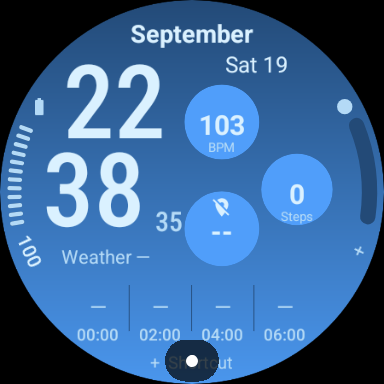
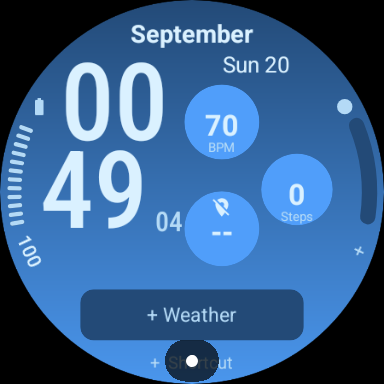
Record native weather-slot tests, screenshots and remaining redraw issue [skip ci]

diff --git a/docs/VALIDATION.md b/docs/VALIDATION.md
@@ -1,85 +1,63 @@
 # Validation evidence
 
-Build environment: Linux x86-64, Temurin JDK 17, Gradle 8.13, Android Gradle Plugin 8.13.2, Android platform/build-tools 35. Date: 2026-09-19.
+Version 0.1.3, 2026-09-19. Resource-only WFF 2; Temurin JDK 17, Gradle 8.13, AGP 8.13.2, Android platform/build-tools 35.
 
-## Completed locally
+## Local checks
 
 | Check | Result |
 | --- | --- |
-| Generated WFF matches source generator | Pass |
-| Eleven regression checks | Pass |
+| Generated XML matches generator | Pass |
+| Ten geometry/complication regression checks | Pass |
 | Official WFF validator 1.7.0, format 2 | Pass |
-| Debug APK and unsigned release AAB | Build successfully |
-| APK/AAB contents | No DEX; referenced images present |
-| Android lint | No errors; advisory warnings described below |
-| Official memory evaluator, APK and AAB | Pass: active 3,551,360 bytes; ambient 3,181,712 bytes |
-| Whitespace/diff check | Pass |
+| Debug APK / unsigned release AAB / Android lint | Pass |
+| Package resources and absence of DEX | Pass |
+| Official APK/AAB memory evaluator | Pass: active 2,371,712 bytes; ambient 3,181,712 bytes |
 
-The regression checks cover six stable slots and their type renderers, distinct tap regions inside the circular screen, disjoint runtime rectangles and bounded rendering parts, all 16 weather conditions with day/night assets, unavailable forecast fallbacks, every hour across midnight/noon, and ambient layer visibility. A pixel-by-pixel geometry check verifies the complete rotated edge-caption rectangles remain inside their clipping masks and the round screen. A separate clearance check keeps the gauge strokes clear of those captions. Additional checks keep the minutes/seconds apart and prevent either weather tap target from overlapping a complication. Resource-label checks also prevent Android-style `@string/` references in raw WFF editor attributes; WFF expects bare resource names.
+Regression coverage includes all seven named slots and renderers, non-overlapping editor/runtime touch rectangles, bounded rendering parts, complete rotated edge labels and gauge clearance, separated minutes/seconds, time/circle clearance, device time-format synchronization, and time/date-only ambient visibility. The weather-slot contract rejects any hard-coded app launch or native forecast data: the selected complication provider owns its data and tap action. It also checks short/long text, images and progress support. There are no longer any forecast rollover expressions to test.
 
-Lint advisories include newer available tool versions, raw-WFF resource references that Android lint cannot trace, and backup metadata for a code-free package. No resource shrinking is enabled, and the package check confirms referenced image resources survive packaging.
+The layout retains the previous stacked time and three staggered circles. Hours/minutes increase from 120 to 126 units; readings of up to three characters increase from 32 to 34. Four-character values use 30, five use 26, and longer text uses 20 to avoid truncating step counts. The separate current-weather/forecast buttons are replaced by slot 7, a 262 × 60 area below the main readings. Slot IDs 1–6 are preserved. Weather starts empty because WFF has no portable system WEATHER provider; choose an installed source in Customize. Image providers may use the area for a chart, but the face does not generate chart history.
 
-`validation/package-checksums.json` identifies the local APK/AAB deliverables. GitHub's fresh runners generate their own development signing key, so their debug APK checksum differs. GitHub artifacts include the reports produced alongside those builds.
+Lint advisories include available dependency updates, resource references inside raw WFF that lint cannot trace, and backup metadata for a code-free package. Resource shrinking remains disabled. `validation/package-checksums.json` identifies local deliverables; CI APK checksums differ because its debug signing keys are temporary.
 
-## Platform verification
+## Native emulator evidence
 
-The local Wear OS API 34 emulator was launched with software CPU emulation because this host has no `/dev/kvm`. It reached Android startup, but `system_server` repeatedly exceeded its 61-second watchdog timeout before package installation was available. These are operating-system boot failures; **no successful local install, watch-face rendering, complication interaction or ambient screenshot is claimed**.
+[GitHub run 35479553609](https://github.com/DylanMc25/ultrawatchfaceedits/actions/runs/35479553609), source commit `1fa08cf`, passed the build job and both emulator jobs. Captures were downloaded and visually reviewed.
 
-Hardware-accelerated [GitHub run 35473692442](https://github.com/DylanMc25/ultrawatchfaceedits/actions/runs/35473692442), commit `38ca287`, passed builds/validation and both emulator jobs. The actual captures were downloaded and visually reviewed:
-
-| Check | API 34, 454 × 454 round | API 35-ext15, 384 × 384 round |
+| Check | API 34, 454 × 454 | API 35-ext15, 384 × 384 |
 | --- | --- | --- |
-| APK installation and face activation | Pass | Pass |
-| Blue gradient, stacked time, date and six areas | Rendered | Rendered |
-| 12/24-hour preference | 10 / 22 hours; forecast labels switch | 10 / 22 hours; forecast labels switch |
-| Missing weather | `Weather —`, four dashes, future-hour labels | Same |
-| Default providers | Heart rate, steps, battery; unavailable sunrise/sunset | Same |
-| Black always-on with time/date only | Pass, display state `DOZE` | Pass, display state `DOZE` |
-| Ambient illuminated area at captured time | 4.2275% | 2.1258% |
+| Install, activate and render blue face | Pass | Pass |
+| Device 12/24-hour preference | Pass | Pass |
+| Native editor: all seven provider choosers | Pass | Pass |
+| Weather-area reassignment to Alarm | Pass | Pass |
+| Assigned weather-area tap dispatches slot 7 | Pass | Pass |
+| Wrong complication dispatch | None | None |
+| Angled battery and assigned right-edge text | Visible | Visible |
+| Black time/date-only ambient, display state | DOZE | DOZE |
+| Ambient lit pixels, including overlays | 2.9106% | 4.2308% |
 
-Illumination counts every non-black pixel within the round screen, including system overlays, with no brightness cutoff. Both captures are below the documented [15% limit](https://developer.android.com/training/wearables/wff/ambient). These measurements establish the captured date/time only, not every possible date, font or device. These captures emulate an unplugged battery so the charging overlay does not cover the shortcut; API 35 still shows the system unread-status dot.
+The native editor's four-digit step count is shown in full with the compact numeric size. The empty weather panel renders within its bounds on both sizes; the assigned Alarm panel renders correctly on API 35 and in both native editors. The final API 34 post-editor active capture shows a partial background redraw (lower background/slot surface missing), although slot text remains visible and its tap opens the Alarm time picker. The initial API 34 active and editor captures are clean, and the preceding run `35479085523` rendered the same slot/background correctly. The cause is unresolved; do not treat the passing interaction job as proof of artifact-free rendering after every provider change. Reproduce on Galaxy Watch and investigate if it persists. API 35's system unread-status overlay covers part of the bottom shortcut; this is still a physical-device review item.
 
-The emulator weather service returned an internal server error; no populated native forecast is claimed. Heart rate and steps are supplied by the emulator's installed providers and are not physical health measurements. Missing provider icons render empty. No readings are fabricated by the face.
+Steps, sunrise/sunset, battery and the assigned weather slot dispatch to IDs 2, 3, 4 and 7 respectively. Battery opens native Battery settings. The emulator's heart-rate placeholder emits no tap launch; real health/app destinations remain unverified.
 
-Version 0.1.2 enlarges forecast temperatures (18 to 26), forecast times (14 to 19), main complication readings (21–23 to 32 for short values), provider titles (11 to 15), seconds (25 to 32), and the bottom shortcut (15–16 to 20). Longer values use smaller type to fit. Minutes are shifted left with a separate seconds column. The battery gauge now uses twelve radial ticks; the right edge has a thicker arc. Both edges use provider icons and angled labels inspired by the original reference. Rounded rectangular masks preserve complete rotated text and disjoint interaction areas.
+The local host lacks `/dev/kvm`; software-emulated Android startup previously hit system-server watchdog failures. Native evidence therefore comes from hardware-accelerated GitHub emulators, not the illustrative renderer.
 
-The weather reading and forecast region now have WFF `Launch` actions targeting `com.samsung.android.watch.weather`, including the unavailable-data state. WFF 2 has no generic weather shortcut in its [documented system launch targets](https://developer.android.com/reference/wear-os/wff/common/launch). Samsung Weather is not bundled in the stock emulators; native tap diagnostics record package-launch requests separately from actual app launch success. Both emulators record the correct package request from both tap areas, with no accidental complication launch. The `api*-weather-*-launch.txt` files show the missing-package/market fallback explicitly. Opening the Samsung app itself remains a physical Galaxy Watch check.
+The automation opens all seven native provider choosers independently. It assigns Alarm to the right edge to check the angled label, then assigns Alarm to the weather area to exercise an actual provider selection and tap. The stock emulator does not include Samsung Weather. An Alarm test establishes the interchangeable slot contract; it does **not** establish live Samsung Weather, chart-provider rendering, or Samsung app launches.
 
-Runtime testing also caught a battery tap being dispatched from the steps circle. The edge slots and all rendering parts now have bounded, disjoint rectangles, with a dedicated regression test; the circular/arc outlines alone were insufficient for native tap dispatch. The native interaction script confirms the blue face before every coordinate tap and reports any launch from the wrong slot.
+The editor displays Wear OS sample time/health readings, not live measurements. Active health values come from emulator providers. Empty/unavailable data is never replaced with fabricated readings by the face. The illustrative preview uses explicitly supplied sample weather.
 
-Runtime testing found a color-setting parse failure that the official schema validator did not detect. The single blue palette now renders directly from centralized source colors; it does not expose an unnecessary one-option color editor. CI rejects a startup/default face or a runtime theme parse failure, rather than accepting installation alone.
+Ambient illumination counts every non-black pixel inside the circular screen, including system indicators. The [15% limit](https://developer.android.com/training/wearables/wff/ambient) applies; measurements establish only the captured time/date/device, not every possible state. The emulator simulates an unplugged battery to avoid the charging overlay. Wear OS status indicators may still overlay the bottom shortcut.
 
-### Editor and tap verification
+## Remaining physical-device coverage
 
-Both emulators opened the native editor and independently opened the provider chooser for **all six slots**. The JSON reports in `validation/api34-editor-results.json` and `validation/api35-editor-results.json` record six visible chooser results each, no tap mismatches and no automation errors. Full per-slot PNG/XML/activity captures are in the linked workflow artifacts. The probe cancels the six individual chooser checks, then assigns Alarm to the right edge and returns to the active face. This verifies the provider selection and its “Set” label. Retaining selections across updates and reboots remains a physical-device check.
+- Check for the recorded API 34 background redraw anomaly after changing providers, including returning from the editor and crossing a minute boundary.
+- Choose Weather in the new slot on the user's Galaxy Watch, check permissions, live readings, units, unavailable state and the provider's tap destination.
+- Assign a compatible image/chart provider and inspect its aspect ratio and readability. This is not guaranteed for every third-party provider.
+- Check long localized month/day strings, wide digits, large steps and provider text, midnight/noon, time-zone changes and temperature extremes.
+- Check real heart-rate consent/actions, provider settings persistence across updates/reboots and battery consumption.
+- Review ambient legibility and illumination at other times/dates on Galaxy Watch hardware.
 
-Native tap logs identify the correct steps, sunrise/sunset and battery slots (2, 3, 4). Battery opens the system Battery settings page on both emulators. Steps and sunrise/sunset dispatch to their slots but do not open another foreground app in these images. The emulator placeholder heart-rate provider produces no launch event and leaves the face visible; its real-watch action is unverified. No unsupported launch is reported as successful.
-
-The native editor supplies sample data: September 28 at 09:30, populated weather, heart rate, steps and sunset. Its captures verify the native populated-weather glyphs and spacing, including compact sunset text. These are **Wear OS editor sample readings**, not live weather or health. The actual face continues to display dashes when live weather is unavailable.
-
-The final API 34 ambient capture shows continuous thin text; API 35 shows stippled text. Both remain below 5% illumination. The measurement applies to each captured state; brightness and readability still need physical Galaxy Watch review.
-
-### Coverage boundaries
-
-| Scenario | Evidence / remaining check |
-| --- | --- |
-| September date, real device text metrics | Reviewed on both emulators; no time/date clipping |
-| Longer localized dates, all wide digit pairs | Ellipsis/fit policies implemented; exhaustive native captures pending |
-| Midnight/noon and forecast rollover | All 24 input hours checked against generated label expressions; native captures also show 00:00 / 02:00 / 04:00 / 06:00 forecast labels and 12-hour equivalents. Main-clock noon/midnight transitions remain pending |
-| Temperature extremes and unit changes | Uses native temperature values; real weather service unavailable in these emulators |
-| Empty right/bottom complications | Setup placeholders rendered |
-| Edge labels on both display sizes | Angled battery “100” and assigned Alarm “Set” fully visible and clear of the gauges |
-| Weather tap areas | Both request Samsung Weather without dispatching a complication; the absent app causes the documented market fallback. Real Samsung app launch pending |
-| Larger readings and seconds | Native active/editor captures reviewed on both sizes; forecast values, provider values/titles and separated seconds remain readable |
-| Unavailable weather and sunrise/sunset | Observed in native captures |
-| Health permission denial | Physical provider consent flow pending |
-| Six separate touch targets | Visible selection geometry and rectangular runtime bounds pass regression checks; all six provider choosers opened independently on both emulators |
-| Provider selection and tap launches | Correct slot dispatch observed for steps/sunrise/battery; Battery settings opens. Alarm selection is saved on exiting the editor. Real heart-rate/app destinations and persistence across updates/reboots require physical hardware |
+The previous layout's physical user feedback informed the revision, but the revised layout is not yet verified on a physical Galaxy Watch. See [release prerequisites](RELEASE.md) before selling.
 
 ## Preview status
 
-The files in `docs/previews/*-illustrative.png` are layout proofs drawn from the WFF geometry with explicit sample readings. They are not emulator screenshots. They cannot prove real font metrics, ambient power behavior, or provider integration. The active proof is the temporary system picker preview.
-
-## Still required before sale
-
-See [RELEASE.md](RELEASE.md): physical Galaxy Watch coverage, real health and app providers, permission/data-unavailable states, exact tap launches, forecast/unit/time-zone behavior, ambient illumination across other dates/times and physical battery use, permanent branding/package ID, signing, and Play submission preparation.
+`docs/previews/*-illustrative.png` are approximate layout proofs from WFF geometry and explicit sample data. They do not prove native font metrics, provider compatibility or battery behavior. The active illustration is the temporary system picker preview; use verified device screenshots before publishing.

diff --git a/docs/PULL_REQUEST.md b/docs/PULL_REQUEST.md
@@ -1,18 +1,12 @@
-# Build blue stacked-time watch face with weather and six complications
+# Build blue stacked-time watch face with seven editable complications
 
-Replaces the placeholder Ultra Info Board layout with a blue gradient, oversized stacked time, three staggered circular complications, editable left/right edge indicators, and a bottom shortcut. Adds native current weather and four forecasts (+2/+4/+6/+8 hours), plus a black always-on time/date display. Default readings are heart rate, steps, sunrise/sunset and battery; the right edge and shortcut start unassigned. Larger complication and forecast text improves readability. Minutes move left to give larger seconds their own column. The edges use a segmented left gauge, thicker right arc, provider icons and angled labels, with rounded rectangular clipping masks. Both weather areas target Samsung Weather on Galaxy Watch.
+Replaces the placeholder face with a blue gradient, large stacked time, three staggered circular complications, edge indicators and a bottom shortcut. A compact interchangeable weather slot replaces the separate current-weather/forecast grid. It accepts provider text, icons, images/charts and progress, and delegates taps to the selected provider. Heart rate, steps, sunrise/sunset and battery are default sources; weather, right edge and bottom shortcut start unassigned. Modest type increases keep the familiar layout. Black always-on mode retains thin time and date only.
 
-![Actual API 34 active face](https://raw.githubusercontent.com/DylanMc25/ultrawatchfaceedits/codex/watchface-redesign/docs/previews/emulator-api34-active.png)
-![Actual API 35 ambient face](https://raw.githubusercontent.com/DylanMc25/ultrawatchfaceedits/codex/watchface-redesign/docs/previews/emulator-api35-ambient.png)
+![Native active face](previews/emulator-api34-active.png)
+![Native always-on face](previews/emulator-api35-ambient.png)
 
-These are actual Wear OS emulator captures. Weather is unavailable in the emulator; health readings come from its installed providers. Live readings are not hard-coded. A separately labeled illustrative populated-weather preview is also included.
+Preserves resource-only WFF 2 packaging and stable slot IDs 1–6; adds slot 7. Restores the pinned Gradle wrapper and produces a debug APK and unsigned release AAB with no DEX. Adds GitHub build/schema/memory/lint checks, geometry regressions and two round Wear OS emulator jobs. Includes setup, installation and release documentation.
 
-Repairs resource-only WFF 2 packaging, restores the pinned Gradle wrapper, produces a code-free debug APK and unsigned release AAB, and adds build/schema/memory checks plus round Wear OS emulator capture jobs. Includes editable-slot geometry checks, forecast rollover checks, original weather assets, picker preview, and installation/release documentation.
+Validation: ten regression checks, official WFF syntax/resource and memory checks, builds and lint pass. Native capture provenance, individual chooser results, tap evidence and measured ambient illumination are recorded in [validation evidence](VALIDATION.md). An API 34 post-editor capture has a partial background redraw anomaly; initial active/editor captures and API 35 are clean. The cause is unresolved and recorded for reproduction. Samsung Weather and image/chart providers remain physical-device checks; the stock emulator tests the new slot with Alarm instead.
 
-Validation evidence and platform-test limitations are tracked in [docs/VALIDATION.md](https://github.com/DylanMc25/ultrawatchfaceedits/blob/codex/watchface-redesign/docs/VALIDATION.md). Local builds, lint (no errors), eleven regression tests, official schema validation, package resource checks, and memory validation pass.
-
-Both API 34 (454 px round) and API 35 (384 px round) render the face, follow 12/24-hour settings and enter the black ambient display. Reviewed ambient captures illuminate under 5% of the round screen, including system indicators. Complete evidence and untested cases are documented rather than inferred from build success.
-
-All six slots independently open their native provider chooser on both emulators. Steps, sunrise/sunset and battery taps dispatch to the correct slots, and battery opens system Battery settings. The native editor also renders the populated weather layout using its own sample data. The assigned Alarm edge label is also fully visible on both sizes. Both weather tap areas request the correct Samsung Weather package without triggering a complication. The stock emulators lack Samsung Weather, so its actual launch remains a physical-device check, alongside real health-provider launches, live weather and provider persistence across updates/reboots. [Passing build, validation and emulator run](https://github.com/DylanMc25/ultrawatchfaceedits/actions/runs/35473692442).
-
-This is a development milestone. Physical Galaxy Watch testing, live weather and Samsung provider/permission flows, final store identity, release signing and Play listing preparation remain required before sale.
+This is a development milestone. Physical Galaxy Watch verification, permanent branding/package identity, release signing and Play Store preparation remain required before sale.

diff --git a/docs/previews/README.md b/docs/previews/README.md
@@ -1,26 +1,22 @@
 # Emulator captures and layout proofs
 
-`emulator-api34-active.png` / `emulator-api34-ambient.png` are actual 454 × 454 large-round captures. The API 35 pair is the 384 × 384 small-round Wear OS 5.1 emulator. See [validation evidence](../VALIDATION.md) for their source run, measured ambient illumination and limitations. Provider values are emulator data; weather is unavailable. System status indicators belong to Wear OS.
+`emulator-api34-active.png` / `emulator-api34-ambient.png` are native 454 × 454 large-round captures. The API 35 pair is the 384 × 384 small-round Wear OS 5.1 emulator. See [validation evidence](../VALIDATION.md) for the source run, ambient illumination and limitations.
 
 ![Actual API 34 active face](emulator-api34-active.png)
 ![Actual API 35 ambient face](emulator-api35-ambient.png)
 
-## Native editor and interactions
+## Editor and provider interactions
 
-The `*-editor.png` images are the real Wear OS editor, using **system sample readings** for time, health and weather. All six outlined areas independently opened the provider chooser on both emulators. The `*-shortcut-picker.png` images show the bottom shortcut's chooser. `emulator-api34-battery-action.png` records the battery tap opening system Battery settings. The complete per-slot captures and logs are downloadable from the workflow linked in the validation report.
+The `*-editor.png` images show the real Wear OS editor and its **system sample time/health readings**. All seven outlined areas must independently open their provider chooser. `*-shortcut-picker.png` shows the bottom shortcut chooser; `*-weather-picker.png` shows the new interchangeable weather slot. Battery action captures record the native Battery settings page.
 
-![Native editor with system sample data](emulator-api34-editor.png)
+`*-edge-alarm.png` assigns Alarm to the right edge on disposable emulators to verify the angled “Set” label. `*-weather-assigned.png` assigns Alarm to the weather slot to verify it accepts another provider. These assignments are test fixtures; the APK leaves both slots unassigned. Samsung Weather and third-party chart providers require physical-watch checks. The final API 34 assigned-provider active capture has a partial background redraw anomaly after leaving the editor; it is preserved unmodified and described in the validation report.
 
-## Edge-caption regression
+![Native editor](emulator-api34-editor.png)
 
-The `*-edge-alarm.png` images assign the system Alarm provider to the right edge on the disposable emulator. They verify that its “Set” text and the left battery label are fully visible. The default APK still leaves the right edge unassigned.
+## Illustrative layout
 
-Weather-tap diagnostics distinguish a request to launch Samsung Weather from a successful app launch. The stock emulators lack the Samsung app; verify the actual destination on Galaxy Watch.
+`active-illustrative.png` and `ambient-illustrative.png` are **illustrations, not emulator screenshots**. They use the committed WFF geometry and explicit sample data: September 19, 02:26, 71 bpm, 8,420 steps, 62% battery and sunny 24° weather. Actual readings always come from selected providers.
 
-## Illustrative populated-weather layout
+Generate with `tools/render_preview.py --font /path/to/Roboto-Regular.ttf` (Pillow and Node required). Text placement approximates WFF. The active illustration also serves as the temporary picker preview.
 
-`active-illustrative.png` and `ambient-illustrative.png` are **illustrative renders**, not emulator screenshots. They read the committed WFF geometry/colors and use explicit sample data (September 19, 02:26, 71 bpm, 8,420 steps, 62% battery, sample weather). Actual readings always come from Wear OS/providers.
-
-Generated with `tools/render_preview.py --font /path/to/Roboto-Regular.ttf` (Pillow and Node required). Text placement approximates WFF and does not establish platform font metrics, provider behavior, accessibility, or battery use. The active image also serves as the system picker preview. Replace with a verified on-device capture before publishing.
-
-![Illustrative populated weather](active-illustrative.png)
+![Illustrative layout with sample data](active-illustrative.png)

diff --git a/docs/RELEASE.md b/docs/RELEASE.md
@@ -3,6 +3,7 @@
 This repository produces a development build, not a signed production submission.
 
 - Choose the permanent application ID, publisher identity, store name and versioning; remove `com.example` before first publication.
+- Reproduce/investigate the API 34 post-editor partial-background redraw captured in the latest validation run; confirm stable repainting after provider changes and minute transitions on Galaxy Watch.
 - Test on physical Galaxy Watch hardware, including a smaller round model: readable digits, every tap area, complication editor, health consent, provider launch actions, weather/location setup, and background/always-on transitions.
 - Exercise real providers for short text (with and without icons/titles), images, ranged values, goals exceeded, and weighted elements. Check unavailable/no-permission and empty states. Samsung-specific data availability must be verified on-device.
 - Select Samsung Weather in the new Weather slot on each supported Galaxy Watch firmware. Verify live short/long text, optional icons/titles, missing-data states and the provider-owned tap destination. Test other providers and the empty state.
